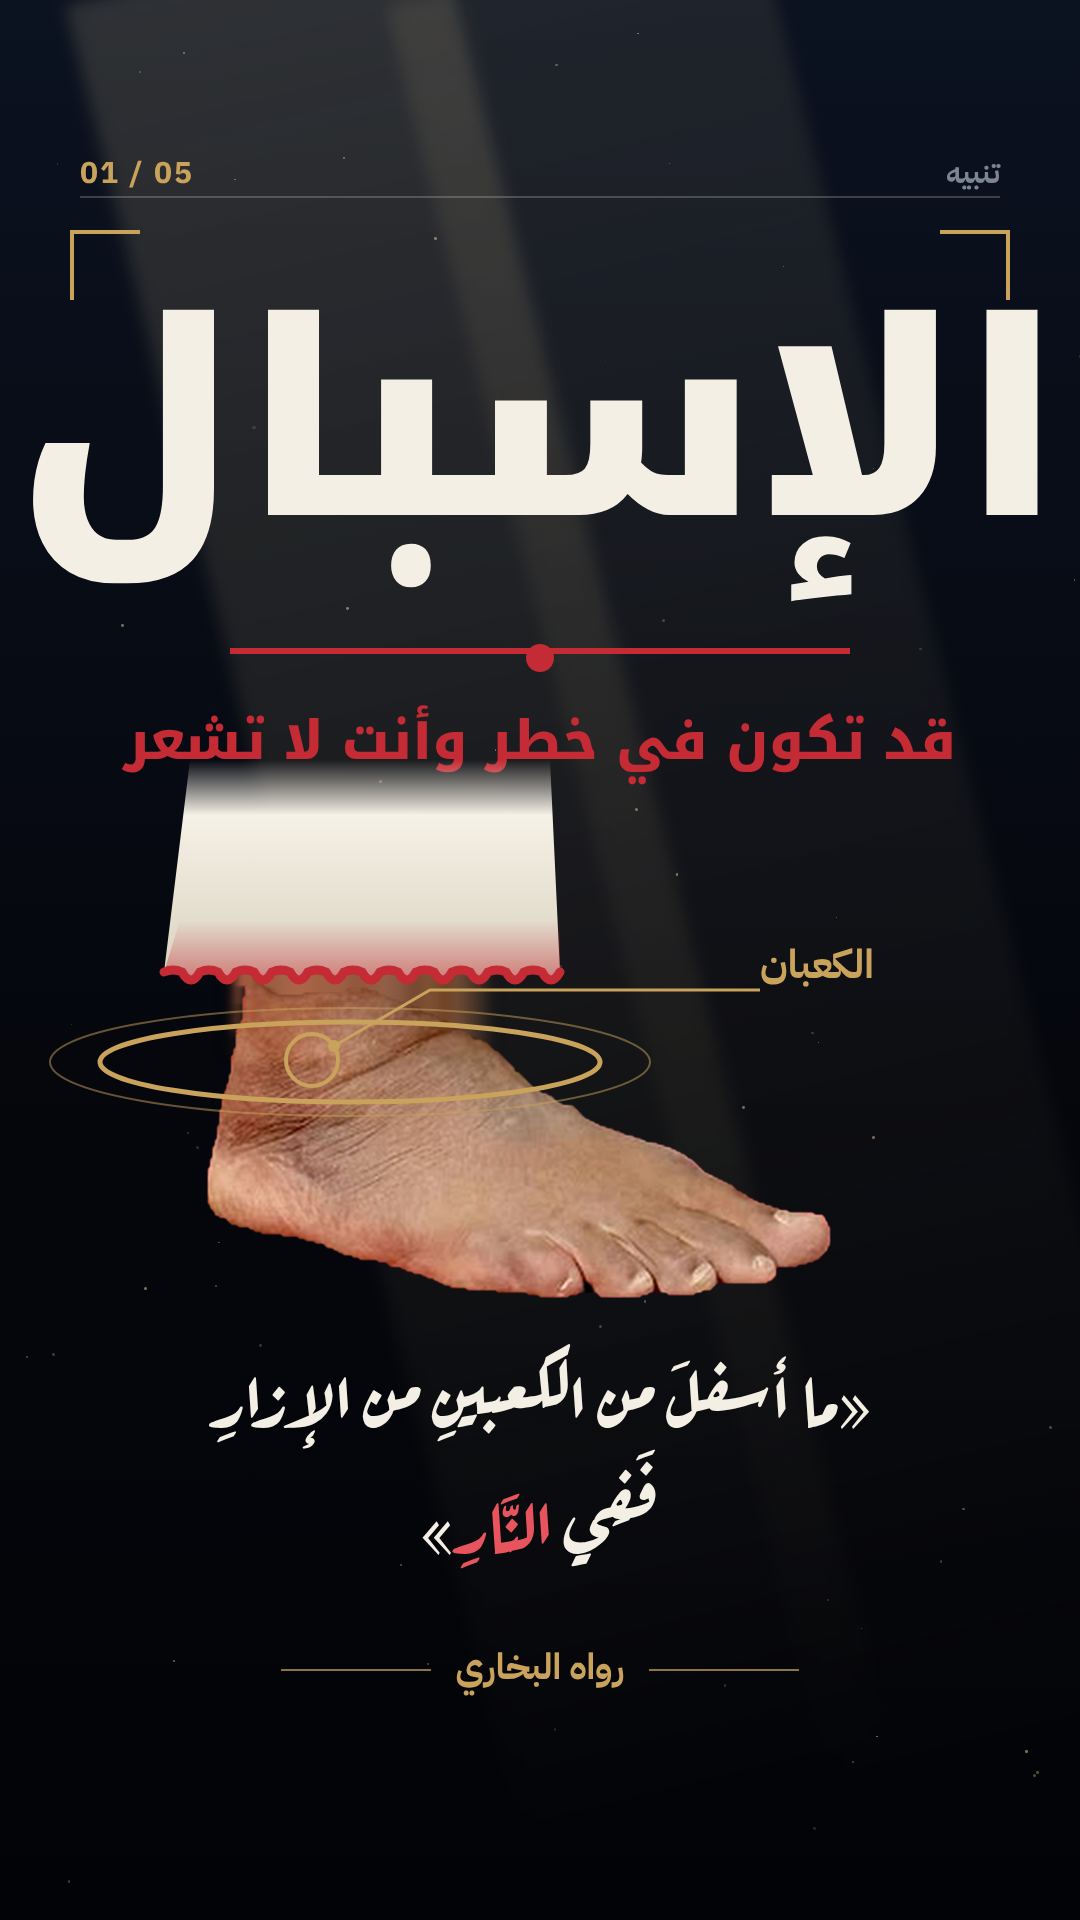
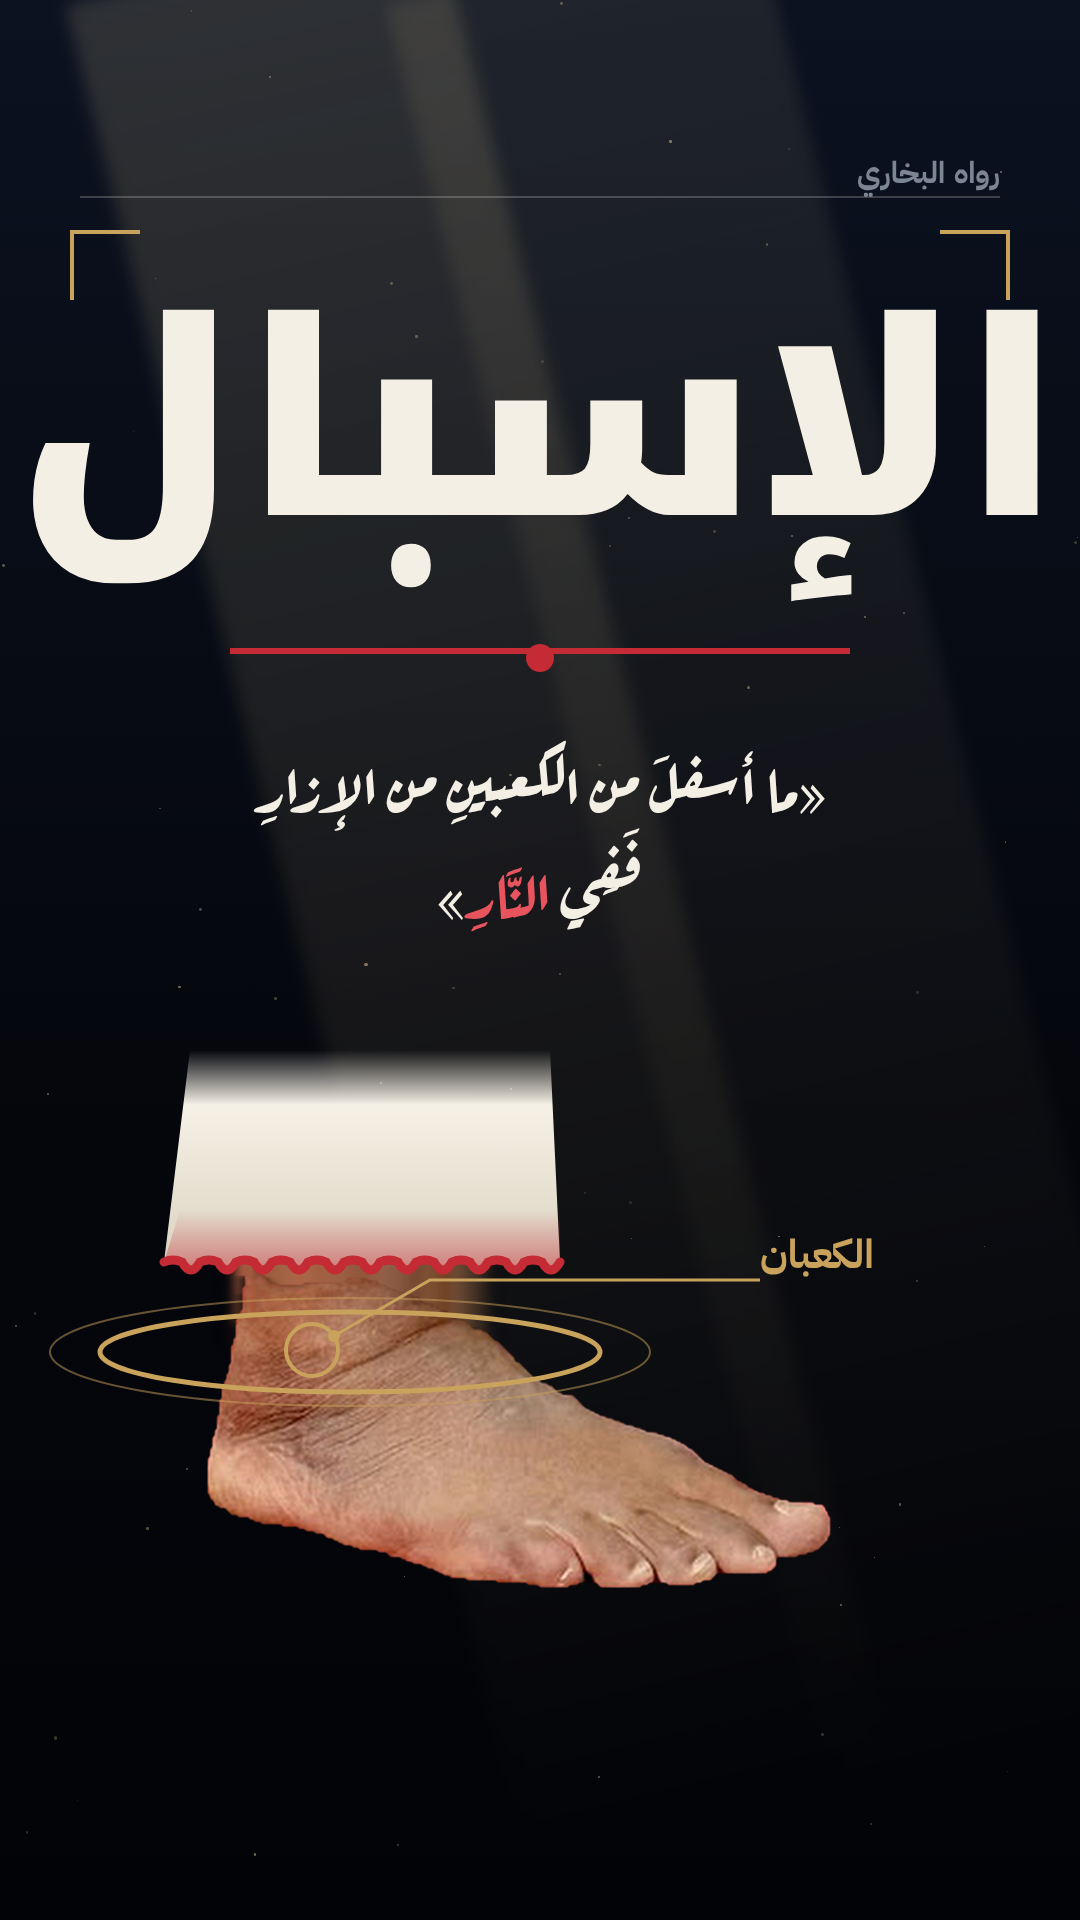
isbal-pro: simpler cover, hadith above foot
Claude-Session: https://claude.ai/code/session_018nkkgYbL2XZo9WU3bDVkWF

diff --git a/isbal-pro/cover/cover.html b/isbal-pro/cover/cover.html
@@ -14,9 +14,9 @@ h1{position:absolute;left:0;right:0;top:250px;text-align:center;font-family:K;fo
 .bar{position:absolute;left:230px;right:230px;top:648px;height:6px;background:#C42B35}
 .dot{position:absolute;left:526px;top:644px;width:28px;height:28px;border-radius:50%;background:#C42B35}
 .sub{position:absolute;left:0;right:0;top:690px;text-align:center;font-size:54px;color:#C42B35;font-family:K;font-weight:800}
-.foot{position:absolute;left:200px;top:880px;width:640px}
+.foot{position:absolute;left:200px;top:1170px;width:640px}
 svg{position:absolute;left:0;top:0}
-.hadith{position:absolute;left:100px;right:100px;top:1330px;text-align:center;font-family:R;font-weight:700;font-size:74px;line-height:1.7;color:#F4EFE4}
+.hadith{position:absolute;left:80px;right:80px;top:730px;text-align:center;font-family:R;font-weight:700;font-size:64px;line-height:1.65;color:#F4EFE4}
 .hadith b{color:#E8545E;font-weight:700}
 .src{position:absolute;left:0;right:0;top:1640px;text-align:center;font-size:36px;color:#C9A25B}
 .src:before,.src:after{content:"";display:inline-block;width:150px;height:2px;background:#C9A25B;vertical-align:middle;margin:0 24px;opacity:.7}
@@ -25,11 +25,11 @@ svg{position:absolute;left:0;top:0}
 <div class="bg"></div>
 <div class="beam" style="left:60px;transform:rotate(-14deg)"></div><div class="beam" style="left:380px;transform:rotate(-14deg);opacity:.6"></div>
 <script>for(let i=0;i<70;i++){const d=document.createElement('div');d.className='dust';const s=1+Math.random()*2.4;d.style.cssText+=`left:${Math.random()*1080}px;top:${Math.random()*1900}px;width:${s}px;height:${s}px;opacity:${.15+Math.random()*.4}`;document.body.appendChild(d)}</script>
-<div class="hud"><span>تنبيه</span><i>01 / 05</i></div>
+<div class="hud"><span>رواه البخاري</span><i></i></div>
 <h1>الإسبال</h1><div class="bar"></div><div class="dot"></div>
-<div class="sub">قد تكون في خطر وأنت لا تشعر</div>
+
 <img class="foot" src="foot.png">
-<svg id="sv" width="1080" height="1920" viewBox="0 0 1080 1920">
+<svg id="sv" style="top:290px" width="1080" height="1920" viewBox="0 0 1080 1920">
  <defs><linearGradient id="g" x1="0" y1="0" x2="0" y2="1"><stop offset="0" stop-color="#f6f1e6" stop-opacity="0"/><stop offset=".25" stop-color="#f6f1e6"/><stop offset="1" stop-color="#d9d2c0"/></linearGradient>
  <linearGradient id="r" x1="0" y1="0" x2="0" y2="1"><stop offset="0" stop-color="#C42B35" stop-opacity="0"/><stop offset="1" stop-color="#C42B35" stop-opacity=".85"/></linearGradient></defs>
  <path id="cloth" fill="url(#g)"/><path id="red" fill="url(#r)" opacity=".6"/><path id="hem" fill="none" stroke="#C42B35" stroke-width="9" stroke-linecap="round"/>
@@ -47,6 +47,6 @@ document.getElementById('hem').setAttribute('d',wave);
 document.getElementById('red').setAttribute('d','M'+(xl-10)+' 920 L'+(xr+10)+' 920 L'+(xr+10)+' '+yh+' '+w+' Z');
 </script>
 <div class="hadith">«ما أسفلَ من الكعبينِ من الإزارِ<br>فَفِي <b>النَّارِ</b>»</div>
-<div class="src">رواه البخاري</div>
+
 <div class="corner" style="left:70px;top:230px;border-right:0;border-bottom:0"></div><div class="corner" style="right:70px;top:230px;border-left:0;border-bottom:0"></div>
 </body></html>
